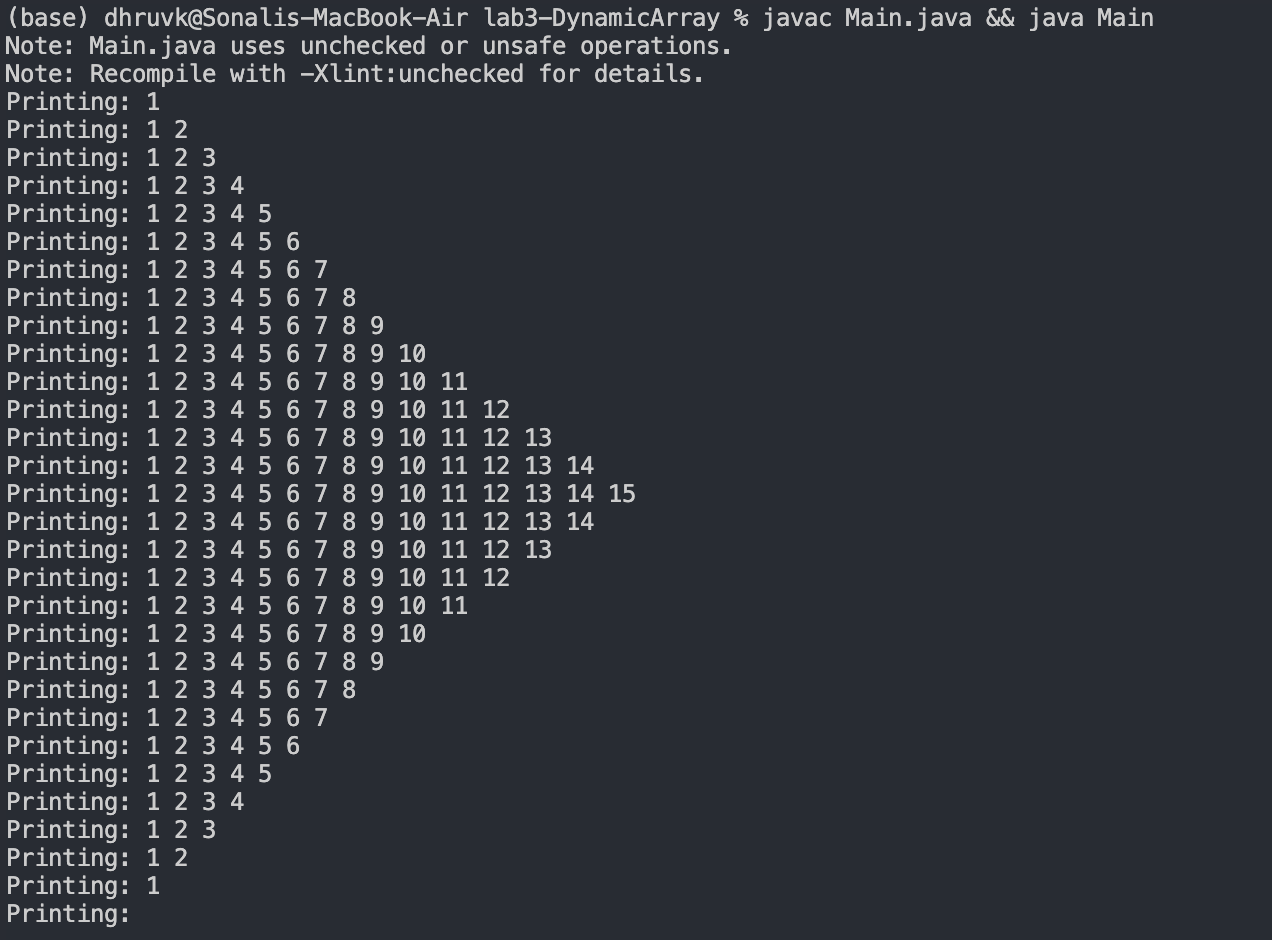
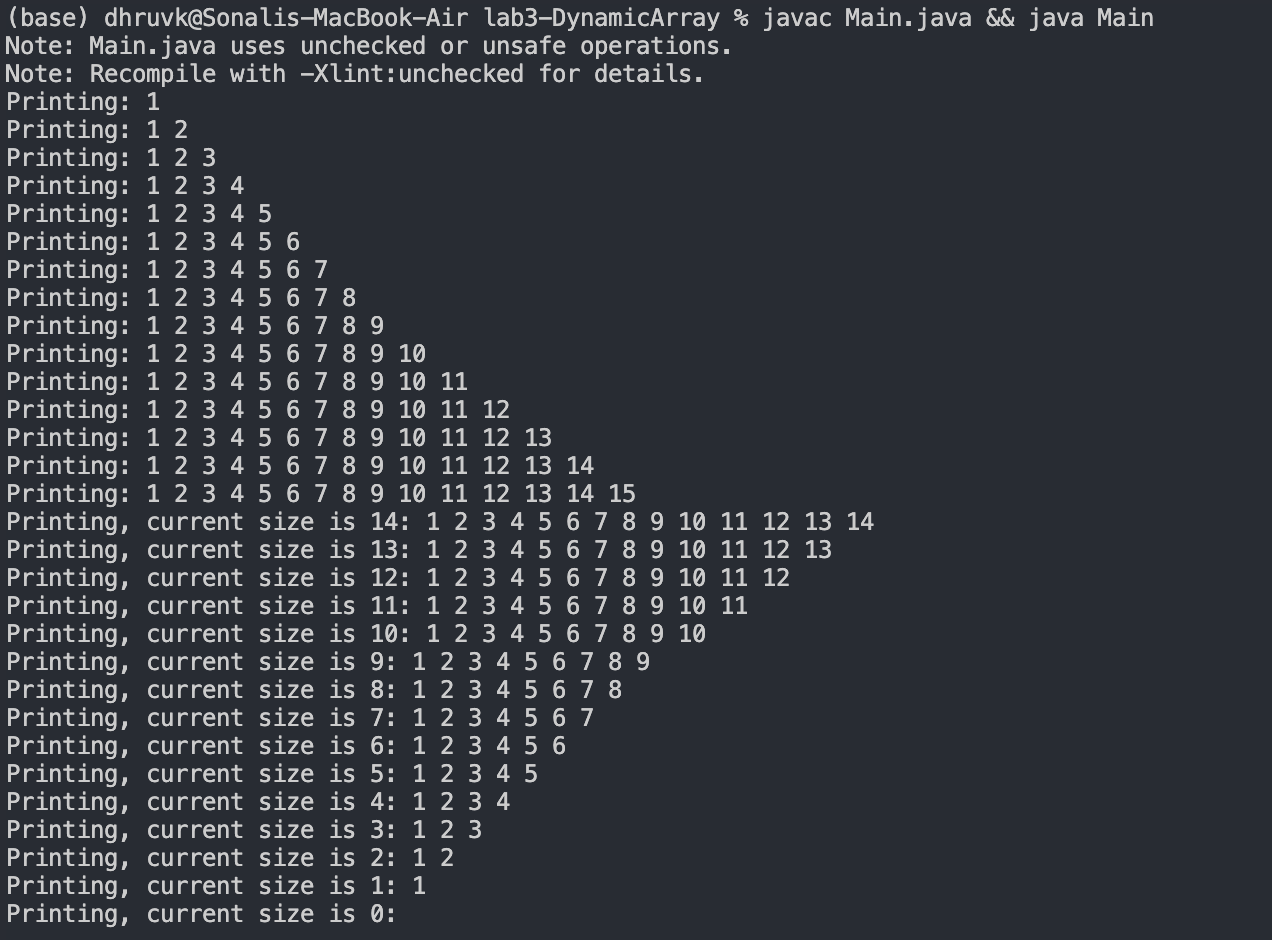
should be functional now added size

Changed region(s): [[0.092, 0.5245, 0.6745, 0.9872]]

diff --git a/lab3-DynamicArray/Main.java b/lab3-DynamicArray/Main.java
@@ -8,7 +8,7 @@ public class Main {
         }
         for (int i = 14; i >= 0; i--) {
             a.remove(i);
-            System.out.print("Printing: ");
+            System.out.print("Printing, current size is " + a.size() + ": ");
             a.print();
         }
         

diff --git a/lab3-DynamicArray/DynamicArray.java b/lab3-DynamicArray/DynamicArray.java
@@ -39,4 +39,7 @@ public class DynamicArray<T> {
         curInd--;
         return type;
     }
+    public int size() {
+        return curInd;
+    }
 }
